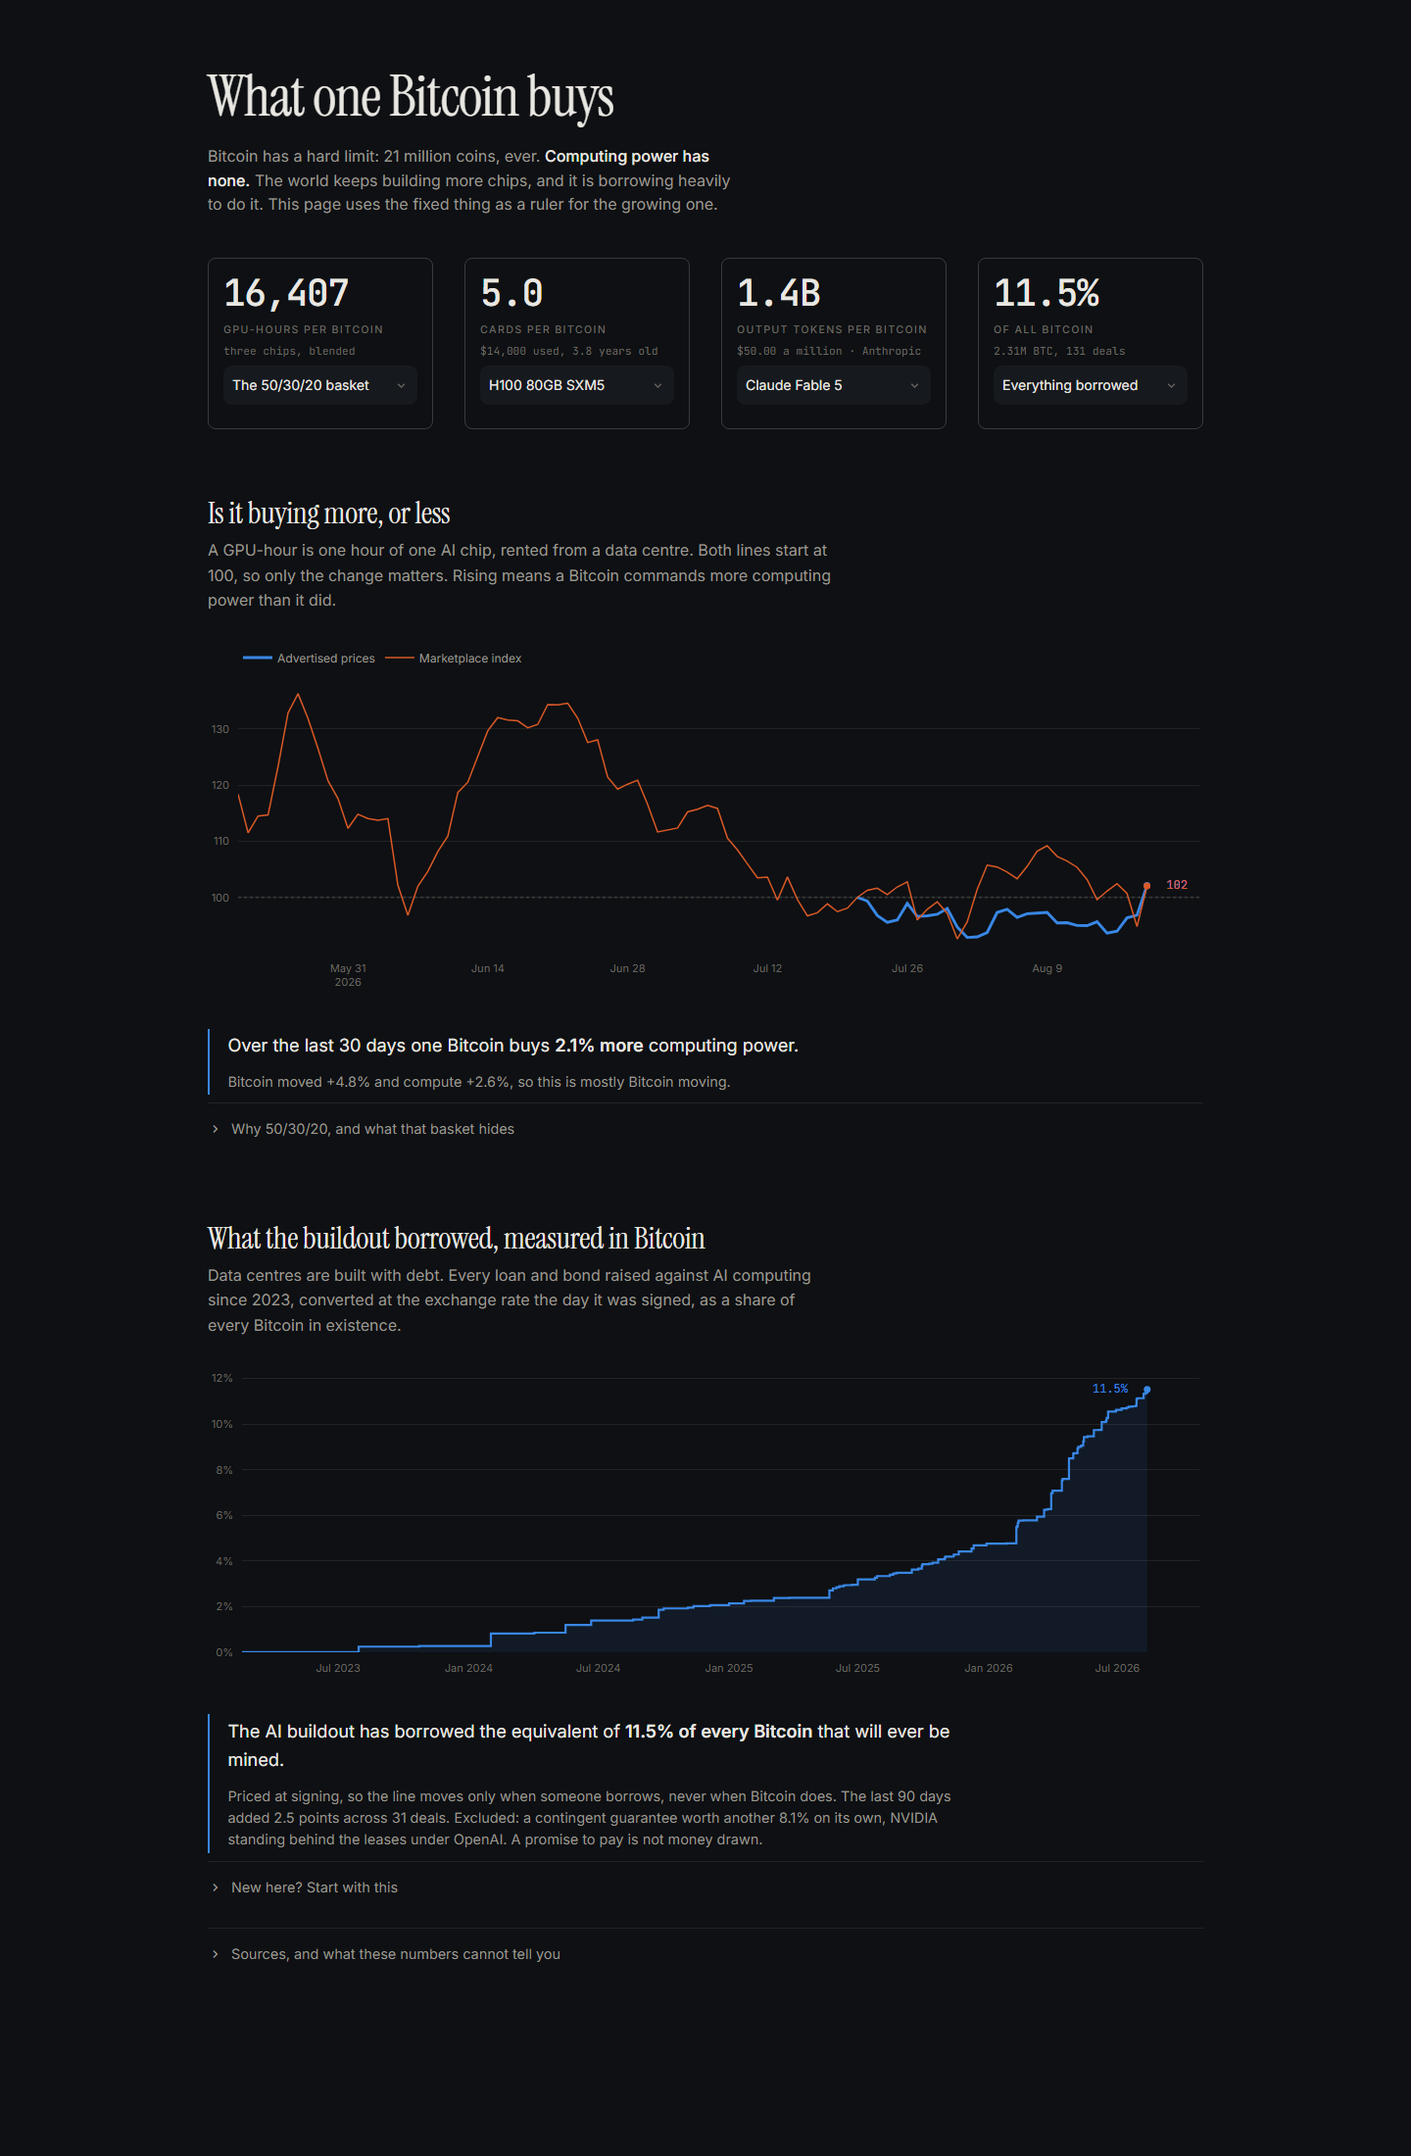
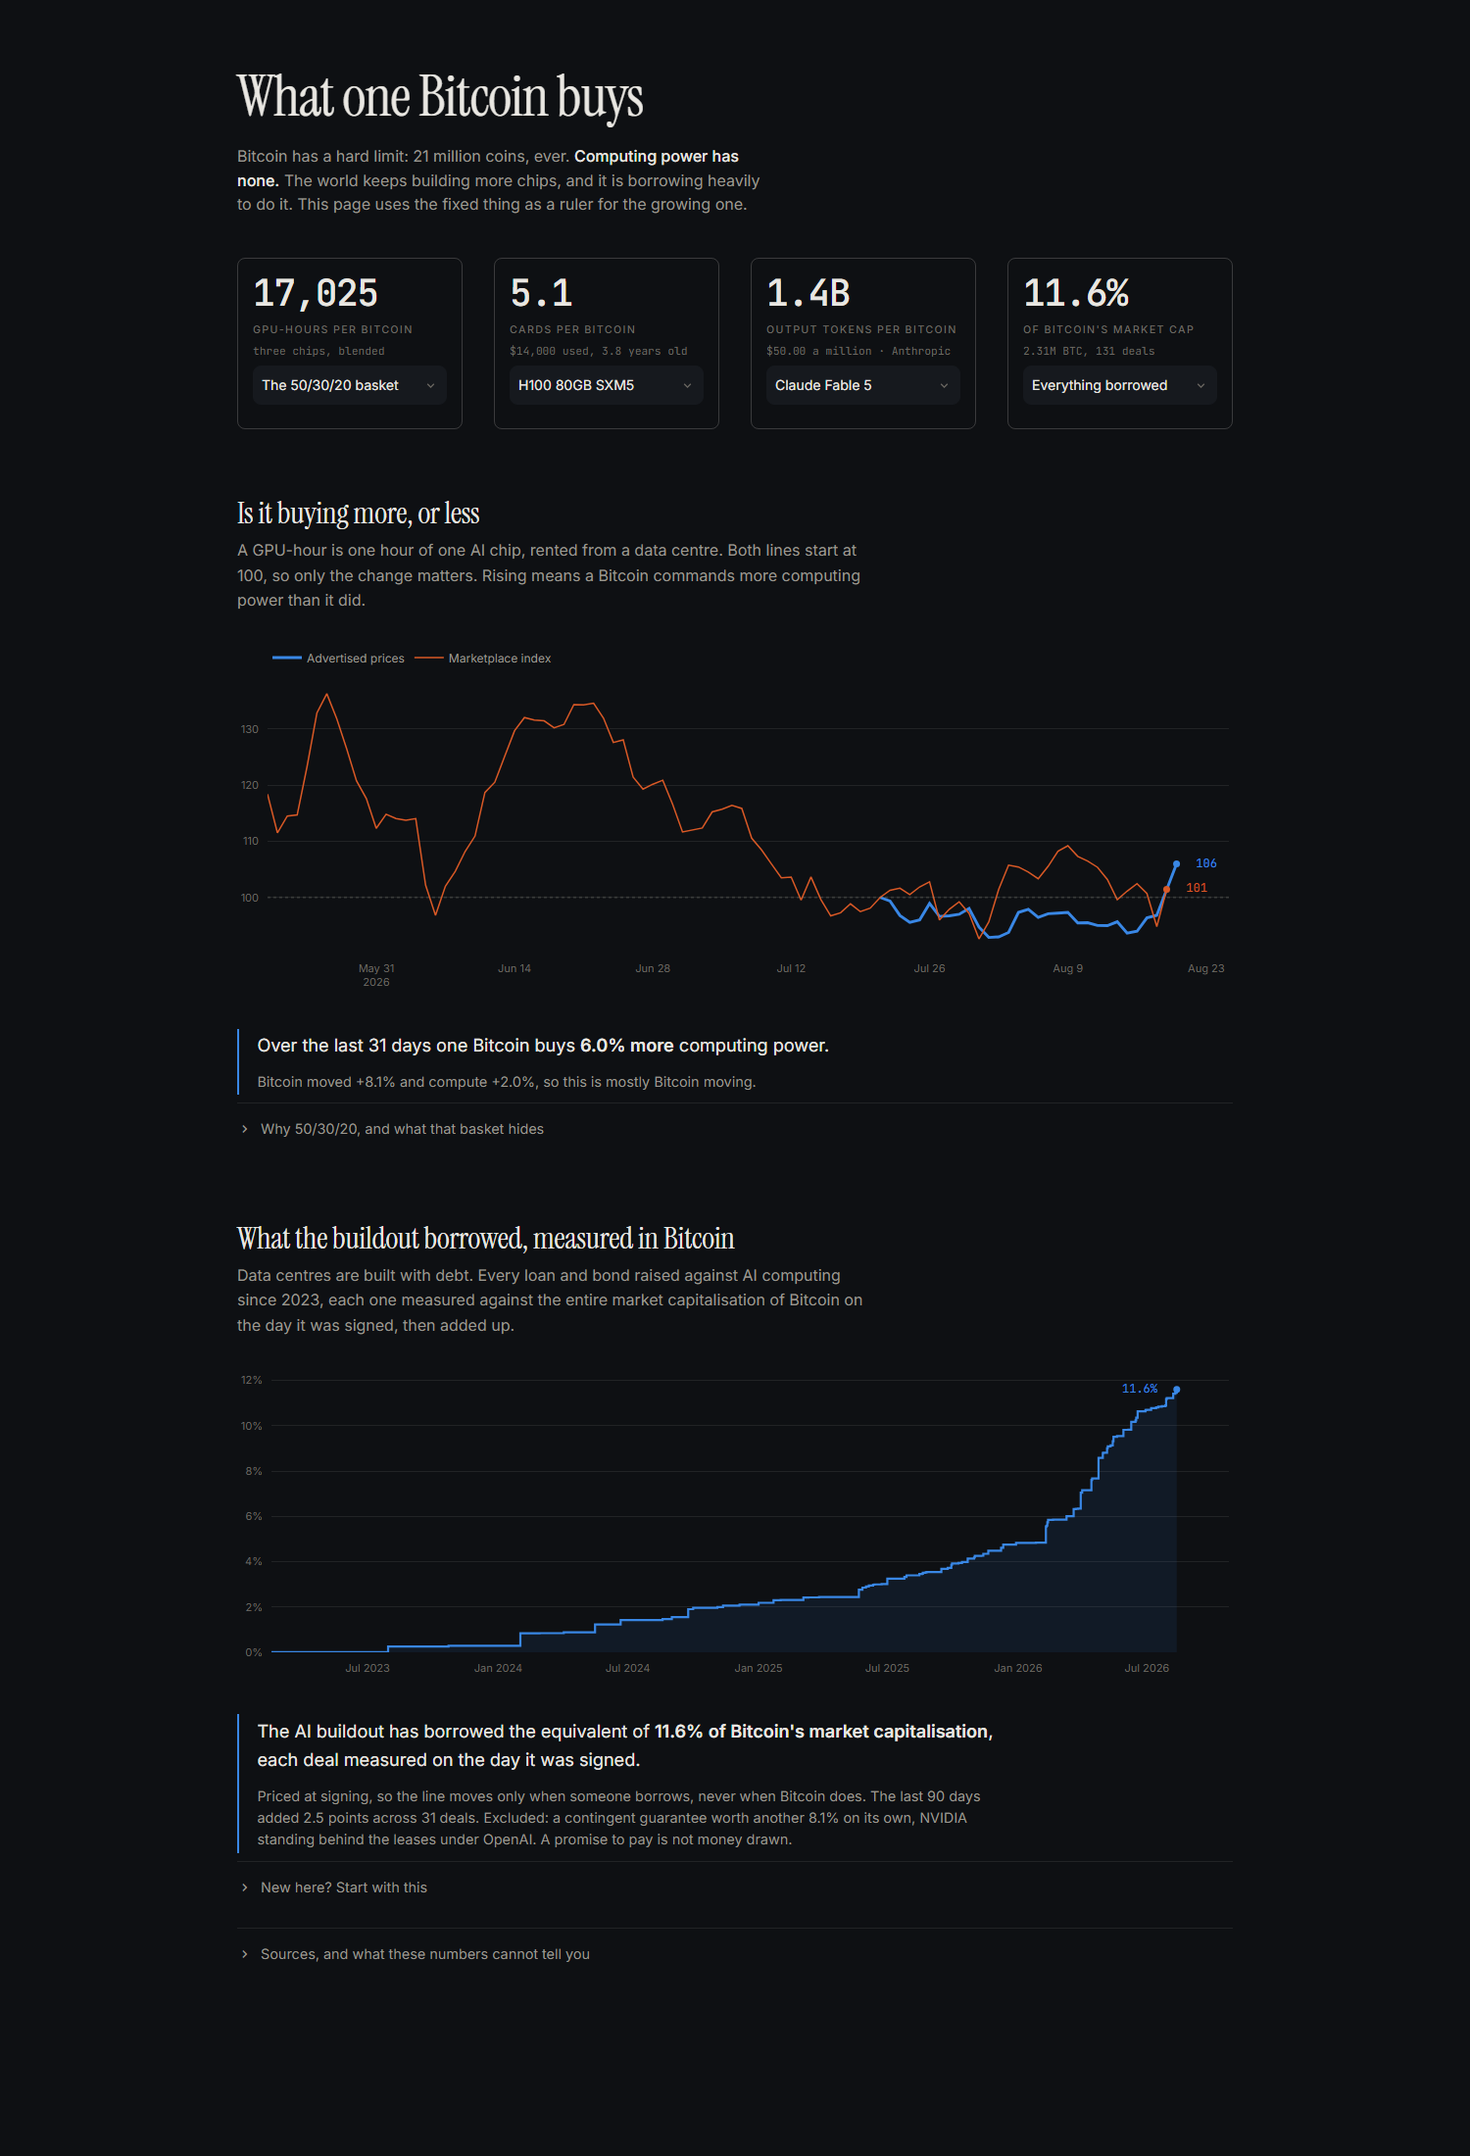
Measure each borrowing against Bitcoin's market cap on its own signing day
The borrow chart divided the whole running total by one supply figure, fetched
once from the current block height. Two things were wrong with that.

Every past point was measured against coins that did not exist yet. Supply grew
4.1% across the window, so the error ran one way, and it meant the chart's
history changed shape every time a block was mined: a deal signed in 2024 read
differently this morning than it did last week.

The headline also disagreed with its own arithmetic. The intro said "a share of
every Bitcoin in existence" while the readout under it said "of every Bitcoin
that will ever be mined". Those are 20.07M and 21M. The number was computed with
the first and labelled with the second.

Now each deal's share is its size over Bitcoin's entire market capitalisation on
the day it was signed, and those shares accumulate. A deal's contribution is
fixed the moment it is struck and never moves again, which is the property that
makes the line readable as a time series. 11.52% becomes 11.61%.

btc.supply_at maps a date to circulating supply through a linear height model
anchored on two real chain observations, checked against four interior probes;
worst error 6,012 BTC, 0.03% of supply. No network call, so load_supply and its
mempool.space fetch are gone from page load entirely. Its old failure path
returned TERMINAL_SUPPLY, which would have silently shifted every percentage on
the card by 4.6% whenever that fetch failed.
[…]

diff --git a/app_v4.py b/app_v4.py
@@ -55,18 +55,6 @@ def load_ornn() -> pd.DataFrame | None:
 
 
 @st.cache_data(ttl=3600, show_spinner=False)
-def load_supply() -> float:
-    from urllib.request import Request, urlopen
-    try:
-        request = Request("https://mempool.space/api/blocks/tip/height",
-                          headers={"User-Agent": "bipp-streamlit/4.0"})
-        with urlopen(request, timeout=20) as response:
-            return btc_history.circulating_supply(int(response.read().decode().strip()))
-    except Exception:  # noqa: BLE001
-        return float(btc_history.TERMINAL_SUPPLY)
-
-
-@st.cache_data(ttl=3600, show_spinner=False)
 def load_btc_window(start: str, end: str) -> pd.DataFrame:
     return fetch_coinbase_btc_usd(start, end)
 
@@ -173,28 +161,31 @@ def card_produce(tokens, latest_btc) -> None:
             "frontier lab. This is what output costs, not what it is worth.")
 
 
-def card_borrow(credit, stack, supply) -> None:
+def card_borrow(credit, stack) -> None:
     if stack.empty:
-        st.markdown(fact("n/a", "Of all Bitcoin", "table unavailable"), unsafe_allow_html=True)
+        st.markdown(fact("n/a", "Of Bitcoin's market cap", "table unavailable"),
+                    unsafe_allow_html=True)
         return
     views = ["Everything borrowed", "Secured only", "Contingent guarantees"]
     choice = remember("borrow", views)
     if choice == "Contingent guarantees":
         _, contingent = btc_history.split_contingent(credit)
         subset = btc_history.debt_in_btc(contingent, load_btc_long(), exclude_contingent=False)
-        amount = subset["btc_at_issue"].sum() if not subset.empty else 0.0
+        share = subset["share_at_issue"].sum() if not subset.empty else 0.0
         foot = "promised, not drawn"
     elif choice == "Secured only":
         secured = stack[stack["seniority"] == "secured"]
-        amount, foot = secured["btc_at_issue"].sum(), f"{len(secured)} loans with collateral"
+        share = secured["share_at_issue"].sum()
+        foot = f"{len(secured)} loans with collateral"
     else:
-        amount = stack["cumulative_btc"].iloc[-1]
-        foot = f"{amount / 1e6:.2f}M BTC, {len(stack)} deals"
-    st.markdown(fact(f"{amount / supply * 100:,.1f}%", "Of all Bitcoin", foot),
+        share = stack["cumulative_share"].iloc[-1]
+        foot = f"{stack['cumulative_btc'].iloc[-1] / 1e6:.2f}M BTC, {len(stack)} deals"
+    st.markdown(fact(f"{share * 100:,.1f}%", "Of Bitcoin's market cap", foot),
                 unsafe_allow_html=True)
     control("borrow", views,
-            "Money raised against AI computing since 2023, converted at the Bitcoin price "
-            "the day each deal was signed, against every Bitcoin mined so far.")
+            "Money raised against AI computing since 2023. Each deal is measured against "
+            "Bitcoin's whole market capitalisation on the day it was signed, and those shares "
+            "are added up, so a deal's contribution never changes once it is struck.")
 
 
 # ------------------------------------------------------------------- charts
@@ -228,8 +219,8 @@ def chart_power(series, ornn) -> go.Figure:
     return figure
 
 
-def chart_stack(stack, supply) -> go.Figure:
-    share = stack["cumulative_btc"] / supply * 100
+def chart_stack(stack) -> go.Figure:
+    share = stack["cumulative_share"] * 100
     figure = go.Figure()
     figure.add_trace(go.Scatter(
         x=stack["issued_on"], y=share, mode="lines", showlegend=False,
@@ -281,7 +272,6 @@ def main() -> None:
 
     latest_btc = float(series["btc_usd"].iloc[-1])
     hardware, tokens, credit = load_hardware(), load_tokens(), load_credit()
-    supply = load_supply()
     stack = btc_history.debt_in_btc(credit, load_btc_long()) if not credit.empty else pd.DataFrame()
 
     slots = st.columns(4, gap="medium")
@@ -296,7 +286,7 @@ def main() -> None:
             card_produce(tokens, latest_btc)
     with slots[3]:
         with st.container(border=True):
-            card_borrow(credit, stack, supply)
+            card_borrow(credit, stack)
 
     # -------------------------------------------------------- purchasing power
     st.subheader("Is it buying more, or less")
@@ -329,18 +319,18 @@ def main() -> None:
         st.subheader("What the buildout borrowed, measured in Bitcoin")
         st.markdown(
             '<p class="dek">Data centres are built with debt. Every loan and bond raised '
-            'against AI computing since 2023, converted at the exchange rate the day it was '
-            'signed, as a share of every Bitcoin in existence.</p>',
+            'against AI computing since 2023, each one measured against the entire market '
+            'capitalisation of Bitcoin on the day it was signed, then added up.</p>',
             unsafe_allow_html=True,
         )
-        st.plotly_chart(theme.chart(chart_stack(stack, supply), 320),
+        st.plotly_chart(theme.chart(chart_stack(stack), 320),
                         use_container_width=True, config=PLOT_CONFIG)
 
         recent = stack[stack["issued_on"] >= stack["issued_on"].max() - pd.Timedelta(days=90)]
-        share = stack["cumulative_btc"].iloc[-1] / supply * 100
+        share = stack["cumulative_share"].iloc[-1] * 100
         aside = (f'Priced at signing, so the line moves only when someone borrows, never when '
                  f'Bitcoin does. The last 90 days added '
-                 f'{recent["btc_at_issue"].sum() / supply * 100:.1f} points across '
+                 f'{recent["share_at_issue"].sum() * 100:.1f} points across '
                  f'{len(recent)} deals.')
 
         _, contingent = btc_history.split_contingent(credit)
@@ -348,12 +338,13 @@ def main() -> None:
                                              exclude_contingent=False)
         if not guaranteed.empty:
             aside += (f' Excluded: a contingent guarantee worth another '
-                      f'{guaranteed["btc_at_issue"].sum() / supply * 100:.1f}% on its own, '
+                      f'{guaranteed["share_at_issue"].sum() * 100:.1f}% on its own, '
                       f'NVIDIA standing behind the leases under OpenAI. A promise to pay is '
                       f'not money drawn.')
         st.markdown(
             f'<div class="readout">The AI buildout has borrowed the equivalent of '
-            f'<b>{share:.1f}% of every Bitcoin</b> that will ever be mined.'
+            f"<b>{share:.1f}% of Bitcoin's market capitalisation</b>, each deal "
+            f'measured on the day it was signed.'
             f'<span class="aside">{aside}</span></div>',
             unsafe_allow_html=True,
         )

diff --git a/tests/test_btc.py b/tests/test_btc.py
@@ -124,3 +124,76 @@ def test_split_contingent_without_an_instrument_column_keeps_every_row():
     credit = pd.DataFrame({"issuer": ["A"], "issued": ["2024-01-01"], "size_musd": [400.0]})
     drawn, contingent = btc.split_contingent(credit)
     assert len(drawn) == 1 and contingent.empty
+
+
+# Real chain observations read from mempool.space on 2026-08-20. supply_at is a
+# model, so it is pinned against measured heights rather than against itself.
+OBSERVED_HEIGHTS = {
+    "2023-01-01": 769_786,
+    "2023-09-01": 805_651,
+    "2024-04-20": 839_998,
+    "2025-03-01": 885_783,
+    "2026-01-01": 930_340,
+    "2026-08-01": 960_481,
+}
+
+
+def test_supply_at_tracks_observed_chain_heights():
+    for date, height in OBSERVED_HEIGHTS.items():
+        actual = btc.circulating_supply(height)
+        error = abs(btc.supply_at(date) - actual)
+        assert error / actual < 0.0005, f"{date}: off by {error:,.0f} BTC"
+
+
+def test_supply_at_is_monotonic():
+    dates = ["2023-01-01", "2024-01-01", "2025-01-01", "2026-01-01", "2026-08-20"]
+    values = [btc.supply_at(d) for d in dates]
+    assert values == sorted(values)
+    assert all(a != b for a, b in zip(values, values[1:]))
+
+
+def test_supply_at_never_reaches_terminal_supply():
+    # The fallback used to be TERMINAL_SUPPLY, which silently moved every
+    # percentage on the borrow card by 4.6 percent when a fetch failed.
+    assert btc.supply_at(btc.SUPPLY_FALLBACK_DATE) < btc.TERMINAL_SUPPLY
+    assert btc.supply_at("2026-08-20") > 20_000_000
+
+
+def test_supply_at_accepts_naive_and_aware_timestamps():
+    naive = btc.supply_at(pd.Timestamp("2025-06-01"))
+    aware = btc.supply_at(pd.Timestamp("2025-06-01", tz="UTC"))
+    assert naive == aware
+
+
+def test_cumulative_share_freezes_each_deal_at_issue():
+    # The property the chart depends on: a deal's contribution is fixed the day
+    # it is signed. Adding a later deal must not move any earlier point.
+    history = pd.Series(
+        [20_000.0, 40_000.0, 80_000.0],
+        index=pd.to_datetime(["2024-01-01", "2025-01-01", "2026-01-01"]),
+    )
+    two = pd.DataFrame({
+        "issuer": ["A", "B"], "instrument": ["loan", "loan"],
+        "size_musd": [1_000.0, 1_000.0], "issued": ["2024-01-01", "2025-01-01"],
+    })
+    three = pd.concat([two, pd.DataFrame({
+        "issuer": ["C"], "instrument": ["loan"],
+        "size_musd": [5_000.0], "issued": ["2026-01-01"],
+    })], ignore_index=True)
+
+    a = btc.debt_in_btc(two, history, since="2024-01-01")
+    b = btc.debt_in_btc(three, history, since="2024-01-01")
+    assert a["cumulative_share"].iloc[0] == pytest.approx(b["cumulative_share"].iloc[0])
+    assert a["cumulative_share"].iloc[1] == pytest.approx(b["cumulative_share"].iloc[1])
+    assert b["cumulative_share"].iloc[2] > b["cumulative_share"].iloc[1]
+
+
+def test_share_at_issue_is_debt_over_market_cap_on_the_day():
+    history = pd.Series([50_000.0], index=pd.to_datetime(["2025-06-01"]))
+    frame = pd.DataFrame({
+        "issuer": ["A"], "instrument": ["loan"],
+        "size_musd": [1_000.0], "issued": ["2025-06-01"],
+    })
+    row = btc.debt_in_btc(frame, history, since="2025-01-01").iloc[0]
+    market_cap = 50_000.0 * btc.supply_at("2025-06-01")
+    assert row["share_at_issue"] == pytest.approx(1_000.0 * 1e6 / market_cap)

diff --git a/bipp/btc.py b/bipp/btc.py
@@ -49,6 +49,10 @@ def price_at(history: pd.Series, when) -> float:
 
 
 TERMINAL_SUPPLY = 21_000_000
+# Last-resort denominator when the chain tip is unreachable. Circulating, not
+# terminal: a network failure must not silently reprice every percentage on the
+# page by the 4.6 percent gap between the two.
+SUPPLY_FALLBACK_DATE = "2026-08-20"
 HALVING_INTERVAL = 210_000
 INITIAL_REWARD = 50.0
 
@@ -76,6 +80,31 @@ def circulating_supply(block_height: int) -> float:
         reward /= 2
         start += HALVING_INTERVAL
     return supply
+
+
+# Height is near-linear in time, so a date maps to a supply without a network
+# call or a per-date lookup. Anchored on two real chain observations at the ends
+# of the window this app covers, both read from mempool.space on 2026-08-20:
+# 2023-01-01 was height 769,786 and 2026-08-01 was height 960,481.
+# Checked against four interior probes (2023-09-01, 2024-04-20, 2025-03-01,
+# 2026-01-01); worst supply error 6,012 BTC, 0.03 percent of supply.
+HEIGHT_ANCHOR_DATE = "2023-01-01"
+HEIGHT_ANCHOR = 769_786
+BLOCKS_PER_DAY = 145.79
+
+
+def supply_at(when) -> float:
+    """Circulating supply on a given date.
+
+    Dividing a historical series by today's supply measures every past point
+    against coins that did not exist yet. Supply grew 4.1 percent across this
+    app's window, so the error is small but it is in one direction.
+    """
+    when = pd.Timestamp(when)
+    if when.tz is None:
+        when = when.tz_localize("UTC")
+    days = (when - pd.Timestamp(HEIGHT_ANCHOR_DATE, tz="UTC")).days
+    return circulating_supply(max(0, int(HEIGHT_ANCHOR + BLOCKS_PER_DAY * days)))
 
 
 def split_contingent(credit: pd.DataFrame) -> tuple[pd.DataFrame, pd.DataFrame]:
@@ -117,6 +146,15 @@ def debt_in_btc(credit: pd.DataFrame, history: pd.Series,
         lambda row: row["size_musd"] * 1e6 / price_at(history, row["issued_on"]), axis=1
     )
     working["cumulative_btc"] = working["btc_at_issue"].cumsum()
+
+    # Each deal's share of Bitcoin's whole market capitalisation on the day it
+    # was signed, then accumulated. Freezing the share at issue is the point:
+    # dividing the running total by one supply figure instead would re-rate every
+    # past deal every time a block is mined, so the chart's history would keep
+    # changing shape after the fact.
+    working["supply_at_issue"] = working["issued_on"].map(supply_at)
+    working["share_at_issue"] = working["btc_at_issue"] / working["supply_at_issue"]
+    working["cumulative_share"] = working["share_at_issue"].cumsum()
     return working.reset_index(drop=True)
 
 

diff --git a/tests/test_apps.py b/tests/test_apps.py
@@ -1,0 +1,42 @@
+"""The app files are never imported by the rest of the suite.
+
+That gap shipped a real defect: a syntax error in app_v4.py sat behind 60
+passing tests, because nothing in tests/ touches the Streamlit entry points.
+Compiling them is cheap and catches the whole class.
+"""
+
+from __future__ import annotations
+
+import ast
+import py_compile
+from pathlib import Path
+
+import pytest
+
+ROOT = Path(__file__).resolve().parent.parent
+APPS = sorted(ROOT.glob("app*.py"))
+
+
+def test_there_are_app_files_to_check():
+    # A glob that silently matches nothing would make every test below vacuous.
+    assert APPS, "no app*.py found; this suite would pass on an empty set"
+
+
+@pytest.mark.parametrize("path", APPS, ids=lambda p: p.name)
+def test_app_compiles(path):
+    py_compile.compile(str(path), doraise=True)
+
+
+@pytest.mark.parametrize("path", APPS, ids=lambda p: p.name)
+def test_app_imports_resolve_within_the_package(path):
+    """Every `from bipp import X` names a module that exists.
+
+    Catches a rename in bipp/ that leaves an app pointing at nothing, which the
+    compile check above cannot see.
+    """
+    tree = ast.parse(path.read_text(encoding="utf-8"), str(path))
+    for node in ast.walk(tree):
+        if isinstance(node, ast.ImportFrom) and node.module == "bipp":
+            for alias in node.names:
+                assert (ROOT / "bipp" / f"{alias.name}.py").exists(), \
+                    f"{path.name} imports bipp.{alias.name}, which does not exist"
